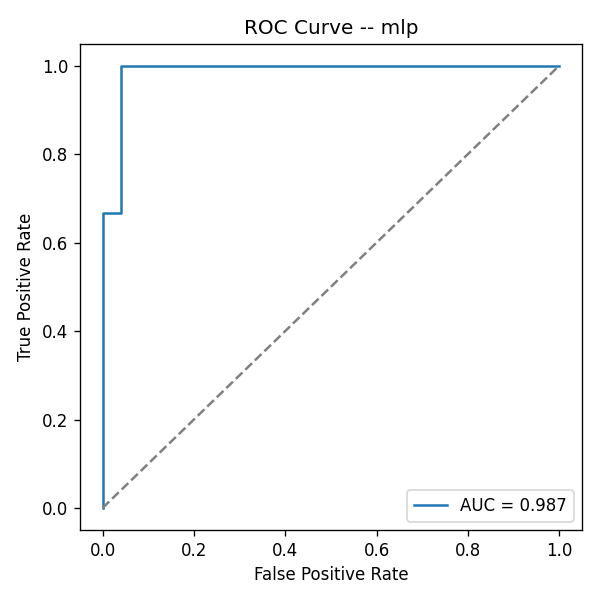
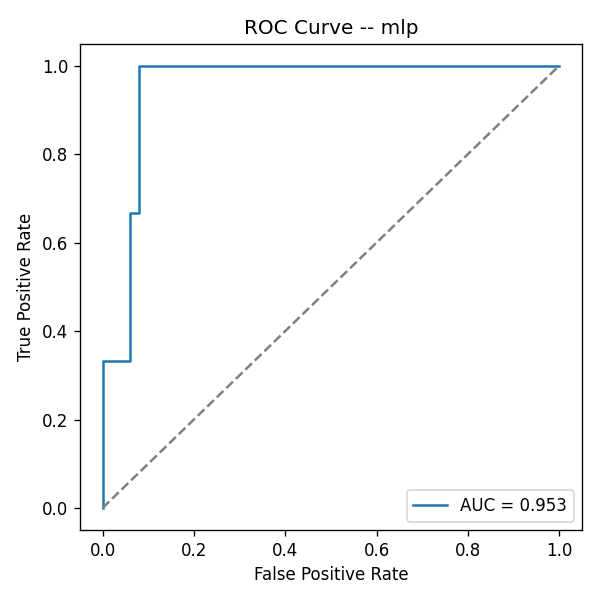
CPG-30 — Layer 1 inference service

diff --git a/scripts/training/common.py b/scripts/training/common.py
@@ -1,5 +1,6 @@
 import json
 import os
+import sys
 
 import joblib
 import matplotlib.pyplot as plt
@@ -14,26 +15,15 @@ from sklearn.metrics import (
     roc_curve,
 )
 
-FEATURE_COLUMNS = [
-    "url_length", "subdomain_count", "has_https", "special_char_count",
-    "keyword_score", "character_entropy", "tld_risk_score", "has_ip_host",
-    "has_at_symbol", "path_depth", "query_param_count", "digit_ratio",
-    "is_punycode_or_homograph", "tranco_rank_bucket", "brand_distance_score",
-    "brand_keyword_in_host", "domain_age_days",
-]
+
+sys.path.insert(0, os.path.join(os.path.dirname(os.path.abspath(__file__)), "..", "..", "backend", "app"))
+from features.url_features import FEATURE_COLUMNS, prepare_features  
 
 
 def load_train_val():
     train = pd.read_csv("data/processed/layer1_train_features.csv")
     val = pd.read_csv("data/processed/layer1_validation_features.csv")
     return train, val
-
-
-def prepare_features(df, median_domain_age):
-    X = df[FEATURE_COLUMNS].copy()
-    X["domain_age_missing"] = X["domain_age_days"].isna().astype(int)
-    X["domain_age_days"] = X["domain_age_days"].fillna(median_domain_age)
-    return X
 
 
 def compute_metrics(y_val, y_pred, y_proba):

diff --git a/backend/app/models/layer1_model.py b/backend/app/models/layer1_model.py
@@ -1,0 +1,37 @@
+import os
+import sys
+from pathlib import Path
+
+import joblib
+import pandas as pd
+
+
+sys.path.insert(0, os.path.dirname(os.path.dirname(os.path.abspath(__file__))))
+from features.url_features import extract_all_features, prepare_features 
+
+_MODEL_PATH = Path(__file__).resolve().parents[3] / "data" / "models" / "layer1_winner.joblib"
+_artifact = None
+
+
+def _load_artifact():
+
+    global _artifact
+    if _artifact is None:
+        _artifact = joblib.load(_MODEL_PATH)
+    return _artifact
+
+
+def predict(url):
+
+    artifact = _load_artifact()
+    model = artifact["model"]
+    median_domain_age = artifact["median_domain_age"]
+
+    raw_features = extract_all_features(url)
+    X = prepare_features(pd.DataFrame([raw_features]), median_domain_age)
+
+    if "scaler" in artifact:
+        X = artifact["scaler"].transform(X)
+
+    phishing_probability = float(model.predict_proba(X)[0][1])
+    return phishing_probability, raw_features

diff --git a/backend/app/features/url_features.py b/backend/app/features/url_features.py
@@ -233,3 +233,21 @@ def extract_features_batch(urls):
         except Exception as exc:
             results.append((None, f"{type(exc).__name__}: {exc}"))
     return results
+
+
+
+FEATURE_COLUMNS = [
+    "url_length", "subdomain_count", "has_https", "special_char_count",
+    "keyword_score", "character_entropy", "tld_risk_score", "has_ip_host",
+    "has_at_symbol", "path_depth", "query_param_count", "digit_ratio",
+    "is_punycode_or_homograph", "tranco_rank_bucket", "brand_distance_score",
+    "brand_keyword_in_host", "domain_age_days",
+]
+
+
+def prepare_features(df, median_domain_age):
+
+    X = df[FEATURE_COLUMNS].copy()
+    X["domain_age_missing"] = X["domain_age_days"].isna().astype(int)
+    X["domain_age_days"] = X["domain_age_days"].fillna(median_domain_age)
+    return X

diff --git a/scripts/data_filtering/validate_urls.py b/scripts/data_filtering/validate_urls.py
@@ -29,7 +29,8 @@ phishtank_snapshots["source"] = "phishtank"
 
 
 tranco = pd.read_csv("data/raw/tranco.csv", header=None, names=["rank", "domain"])
-tranco["url"] = "http://" + tranco["domain"]
+
+tranco["url"] = "https://" + tranco["domain"]
 tranco["source"] = "tranco"
 
 
@@ -51,7 +52,7 @@ ALLOWED_SCHEMES = {"http", "https"}
 
 
 def validate_url(url):
-    """Check a single URL string. Returns (is_valid, rejection_reason)."""
+
     if pd.isna(url) or not str(url).strip():
         return False, "empty"
 
